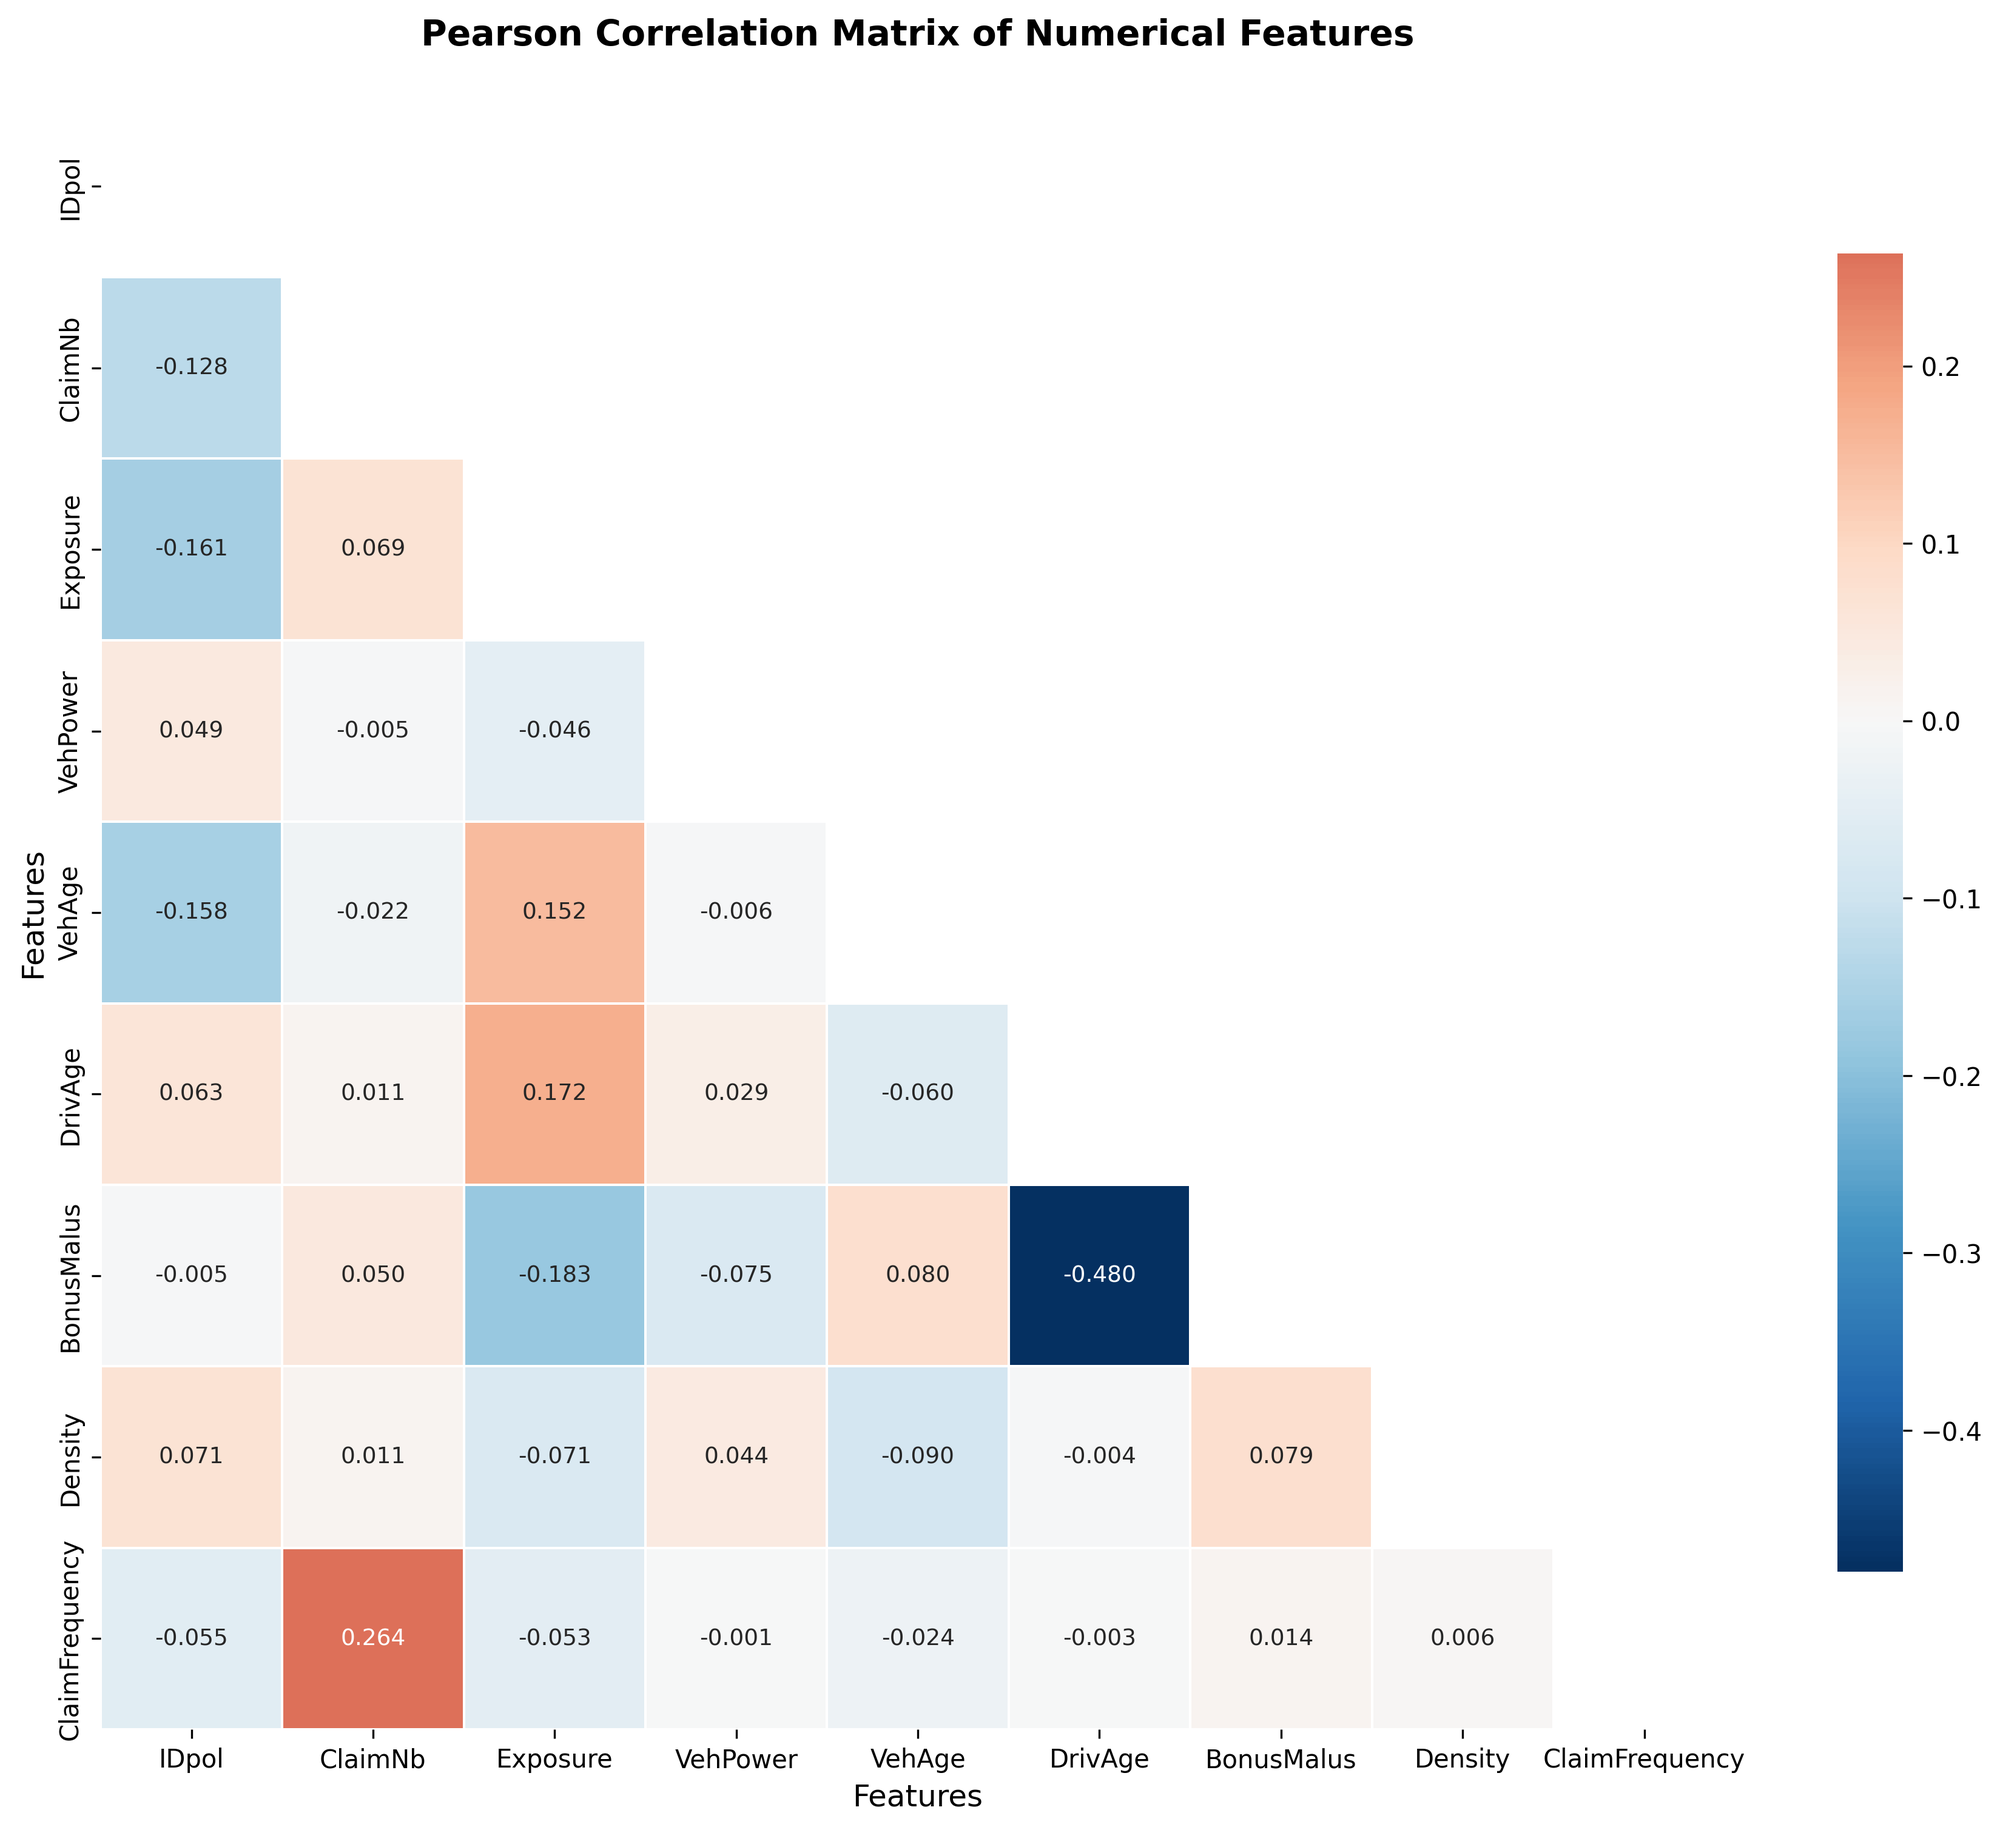
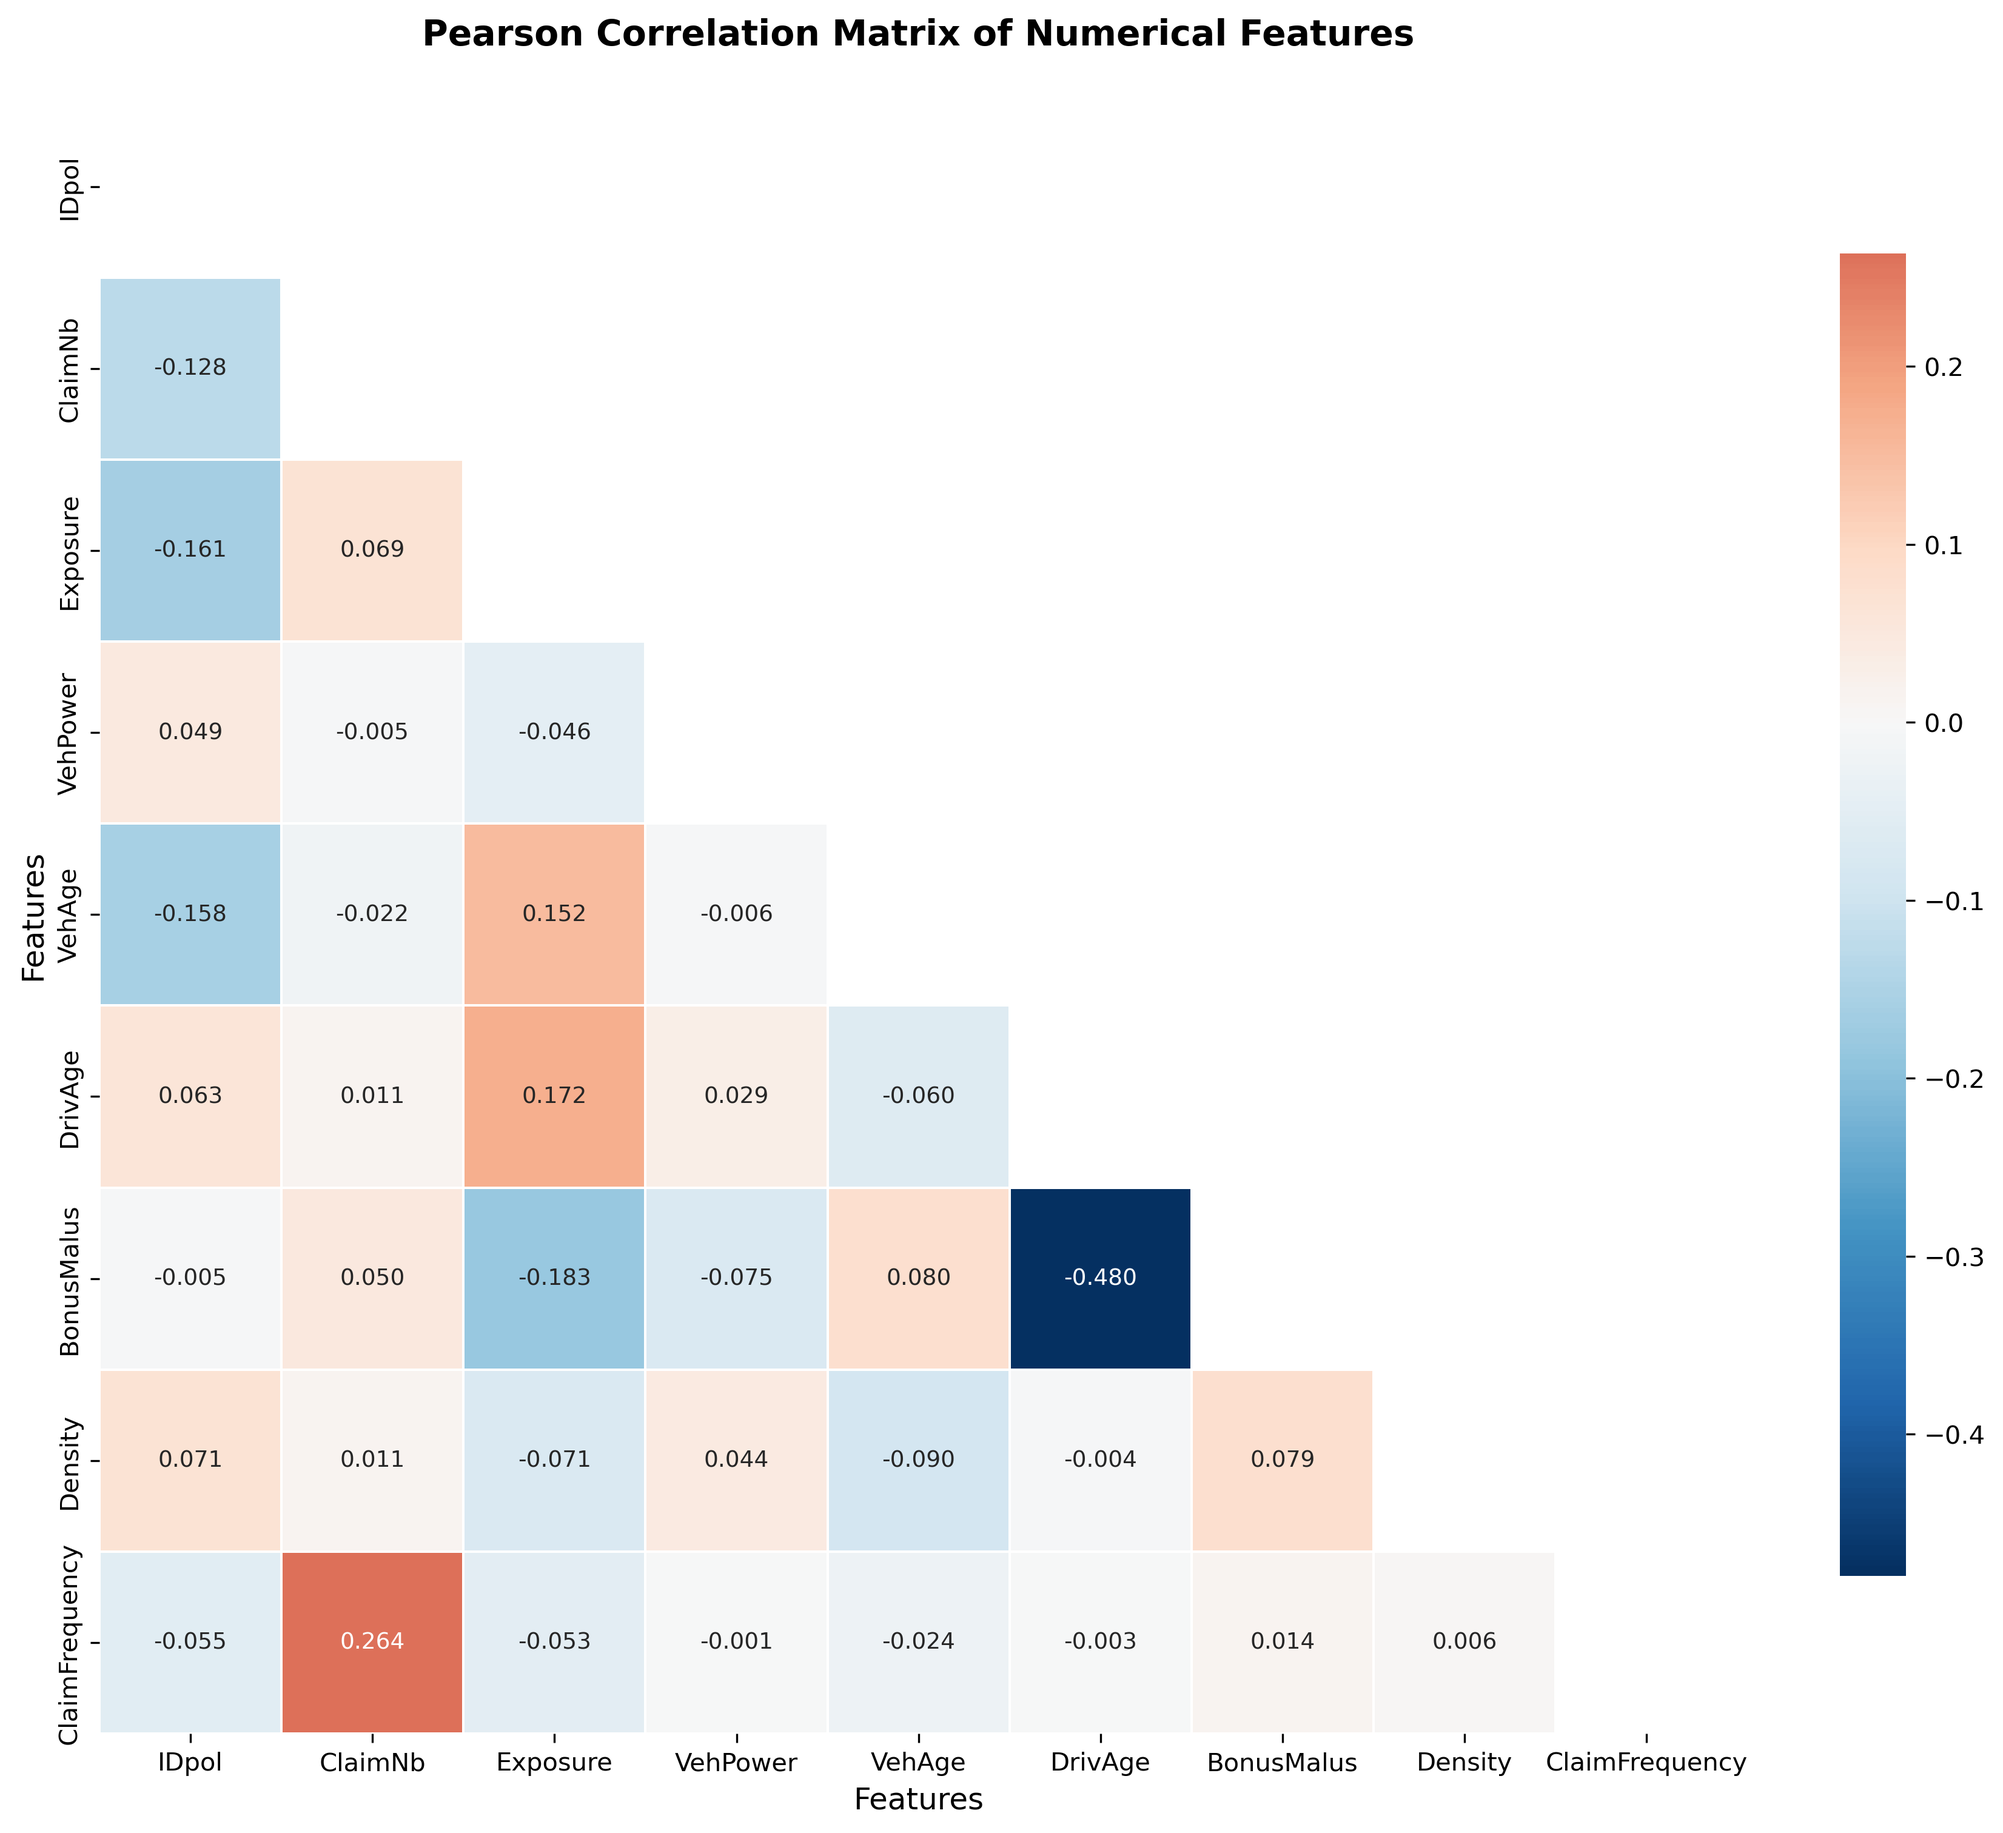
Add advanced analysis plots and logs

diff --git a/util/advanced_analysis.py b/util/advanced_analysis.py
@@ -14,9 +14,8 @@ def analyze_correlations(df, threshold=0.3, method='pearson', save_plot=True):
         correlation_matrix = numerical_data.corr(method='spearman')
         title = 'Spearman Correlation Matrix of Numerical Features'
     else:
-    if file_path is None:
-        ml_root = os.path.abspath(os.path.join(os.path.dirname(__file__), '..'))
-        file_path = os.path.join(ml_root, 'data', 'claims_train_cleaned.csv')
+        correlation_matrix = numerical_data.corr()
+        title = 'Pearson Correlation Matrix of Numerical Features'
     
     plt.figure(figsize=(12, 10))
     mask = np.triu(np.ones_like(correlation_matrix, dtype=bool))
@@ -36,8 +35,8 @@ def analyze_correlations(df, threshold=0.3, method='pearson', save_plot=True):
         os.makedirs(results_dir, exist_ok=True)
         filename = os.path.join(results_dir, f'correlation_matrix_{method}.png')
         plt.savefig(filename, dpi=300, bbox_inches='tight')
+        plt.close()
     
-    plt.show()
     return correlation_matrix
 
 def analyze_target(df, target_col='ClaimFrequency', output_dir=None):
@@ -104,7 +103,6 @@ def _plot_distributions(target, target_col, output_dir):
     results_dir = os.path.join(os.path.dirname(__file__), '..', 'results')
     os.makedirs(results_dir, exist_ok=True)
     plt.savefig(os.path.join(results_dir, f'{target_col}_distributions.png'), dpi=300, bbox_inches='tight')
-    plt.show()
 
 def _analyze_risk_factors(df, target_col):
     """Analyze numerical risk factors"""
@@ -283,8 +281,9 @@ def run_complete_pipeline(file_path=None, correlation_threshold=0.3):
     try:
         from basic_analysis import run_complete_analysis as basic_analysis
     except ImportError:
-        return None
-   
+        print("Warning: basic_analysis module not found.")
+        return None 
+    
     if file_path is None:
         file_path = os.path.join(os.path.dirname(__file__), '..', 'data', 'claims_train_cleaned.csv')
 
@@ -294,7 +293,6 @@ def run_complete_pipeline(file_path=None, correlation_threshold=0.3):
             print(f"Cleaned data not found. Running basic analysis on {original_file}")
             df_cleaned = basic_analysis(original_file)
         else:
-            file_path = os.path.abspath(file_path)
             print(f"Loading cleaned data from: {file_path}")
             df_cleaned = pd.read_csv(file_path)
             print(f"Loaded cleaned dataset: {df_cleaned.shape}")
